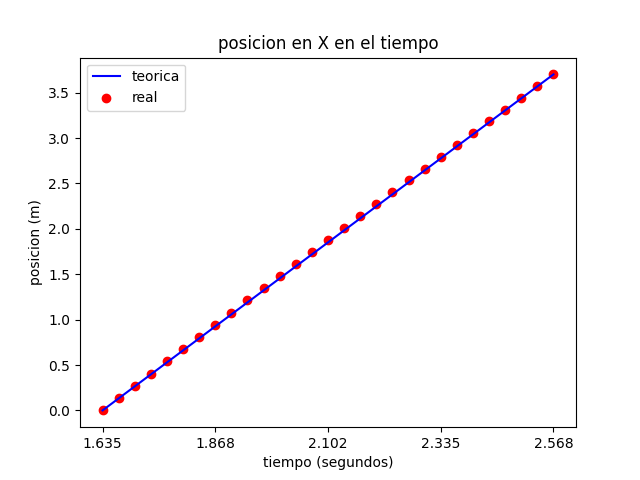
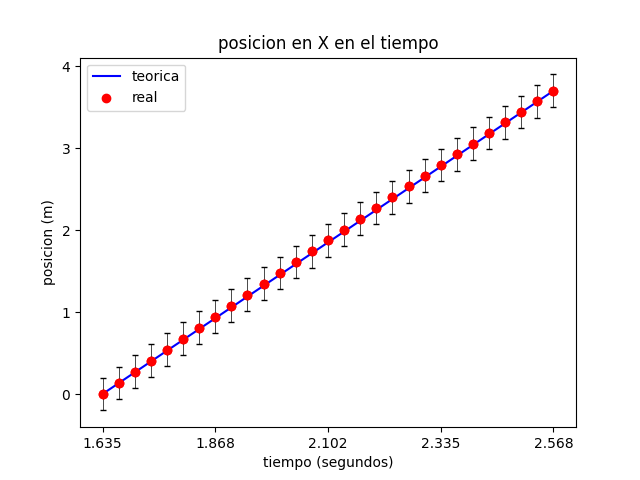
fix graficos posicion con error

diff --git a/src/basket-doble/pandas_procesing.py b/src/basket-doble/pandas_procesing.py
@@ -117,7 +117,7 @@ def graficar_velocidad_tiempo(tabla, coordenada, guardar_grafica=None, mostrar_g
         plt.show()
 
 
-def graficar_posicion_tiempo(tabla, coordenada, guardar_grafica=None, mostrar_grafica=None):
+def graficar_posicion_tiempo(tabla, coordenada, guardar_grafica=None, mostrar_grafica=None, error=0):
     """
     Genera un gráfico de dispersión de posición contra tiempo para una determinada coordenada en un DataFrame.
 
@@ -146,13 +146,15 @@ def graficar_posicion_tiempo(tabla, coordenada, guardar_grafica=None, mostrar_gr
 
     ajustar_etiquetas_tiempo(ax, tabla["Time"], 5)
 
+    plt.errorbar(tiempo, posicion, yerr=error, fmt='o', color='red', ecolor='black', elinewidth=0.5, capsize=2)
+
     if guardar_grafica:
         plt.savefig(RUTA_CARPETA_IMAGENES + "posicion_tiempo_" + coordenada + ".png")
     if mostrar_grafica:
         plt.show()
 
 
-def graficar_aceleracion_tiempo(tabla, coordenada, guardar_grafica=None, mostrar_grafica=None):
+def graficar_aceleracion_tiempo(tabla, coordenada, guardar_grafica=None, mostrar_grafica=None, error=0):
     """
     Genera un gráfico de aceleración en el tiempo para una coordenada dada en un DataFrame de pandas.
 
@@ -165,7 +167,6 @@ def graficar_aceleracion_tiempo(tabla, coordenada, guardar_grafica=None, mostrar
     Returns:
         None
     """
-    error = 0.8
     accCoor = "acceleration" + coordenada
     aceleracion = tabla[accCoor].iloc[2:]
     aceleracion_teorica = tabla["acc_" + coordenada + "_teorica"].iloc[2:]
@@ -189,7 +190,7 @@ def graficar_aceleracion_tiempo(tabla, coordenada, guardar_grafica=None, mostrar
         plt.show()
 
 
-def graficar_posicion_xy(tabla, guardar_grafica=None, mostrar_grafica=None):
+def graficar_posicion_xy(tabla, guardar_grafica=None, mostrar_grafica=None, error=0):
     """
     Grafica la posición de la nave en el eje X contra el eje Y en un DataFrame de pandas.
 
@@ -211,6 +212,8 @@ def graficar_posicion_xy(tabla, guardar_grafica=None, mostrar_grafica=None):
     plt.ylabel('posicion en el eje Y (m)')
     # titulo
     plt.title('Posicion')
+
+    plt.errorbar(tabla["X"], tabla["Y"], yerr=error, fmt='o', color='red', ecolor='black', elinewidth=0.5, capsize=2)
 
     if guardar_grafica:
         plt.savefig(RUTA_CARPETA_IMAGENES + "posicion_xy.png")
@@ -449,14 +452,14 @@ def main():
     # agregar datos de movimiento a la tabla
     tabla_movimiento = generar_datos_movimiento_metros(tabla_movimiento)
     # graficos de la coordenada x
-    graficar_posicion_tiempo(tabla_movimiento, "X", 1, MOSTRAR_GRAFICOS)
-    graficar_velocidad_tiempo(tabla_movimiento, "X", 1, MOSTRAR_GRAFICOS, 3, 5, 0.2)
+    graficar_posicion_tiempo(tabla_movimiento, "X", 1, MOSTRAR_GRAFICOS, error=0.2)
+    graficar_velocidad_tiempo(tabla_movimiento, "X", 1, MOSTRAR_GRAFICOS, 3, 5, error=0.2)
     # graficos de la coordenada y
-    graficar_posicion_tiempo(tabla_movimiento, "Y", 1, MOSTRAR_GRAFICOS)
+    graficar_posicion_tiempo(tabla_movimiento, "Y", 1, MOSTRAR_GRAFICOS, error=0.2)
     graficar_velocidad_tiempo(tabla_movimiento, "Y", 1, MOSTRAR_GRAFICOS, error=0.4)
-    graficar_aceleracion_tiempo(tabla_movimiento, "Y", 1, MOSTRAR_GRAFICOS)
+    graficar_aceleracion_tiempo(tabla_movimiento, "Y", 1, MOSTRAR_GRAFICOS, error=0.8)
     # graficar posicion de x respecto a y
-    graficar_posicion_xy(tabla_movimiento, 1, MOSTRAR_GRAFICOS)
+    graficar_posicion_xy(tabla_movimiento, 1, MOSTRAR_GRAFICOS, error=0.2)
     # generar datos de energia
     tabla_movimiento = generar_datos_energia(tabla_movimiento)
     # graficar energia

diff --git a/src/Teoria_Errores/teoria_error_tiro_doble.py b/src/Teoria_Errores/teoria_error_tiro_doble.py
@@ -1,12 +1,10 @@
 import csv
 import math
 import os
-from math import floor, log10, ceil
-
 import numpy as np
 import pandas as pd
 from matplotlib import pyplot as plt
-from mpmath.libmp import round_up
+
 
 PATH_ERROR_C_CURVE_FIT = '../basket-doble/tablas/error_segun_curve_fit.csv'
 # calculada con curve fit pero en metros
